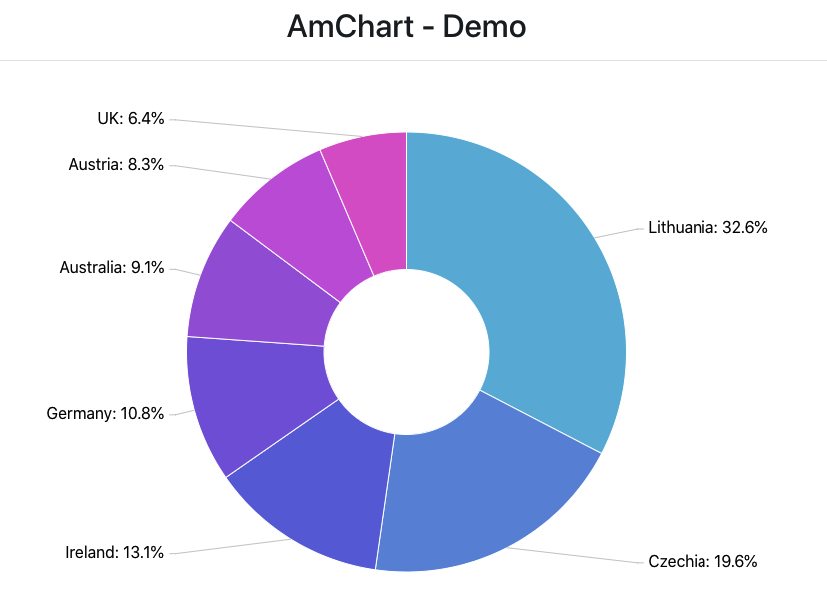
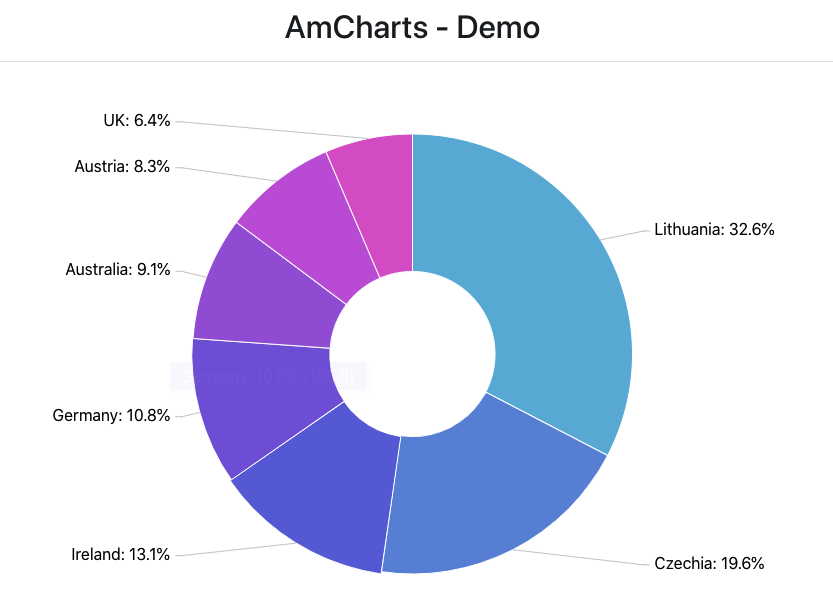
fixed typo error

diff --git a/src/App.js b/src/App.js
@@ -8,7 +8,7 @@ function App() {
   return (
     <Router>
       <div>
-        <h2 className="header">AmChart - Demo</h2>
+        <h2 className="header">AmCharts - Demo</h2>
         <hr />
         <Switch>
           <Route exact path="/" component={PieChart1} />

diff --git a/README.md b/README.md
@@ -3,7 +3,7 @@
 
 <div align="center">
 	<img src="src/assets/PieChartDemo.png">
-	<h1>Pie Chart using AmChart4</h1>
+	<h1>Pie Chart using AmCharts4</h1>
 </div>
 
 <br>
